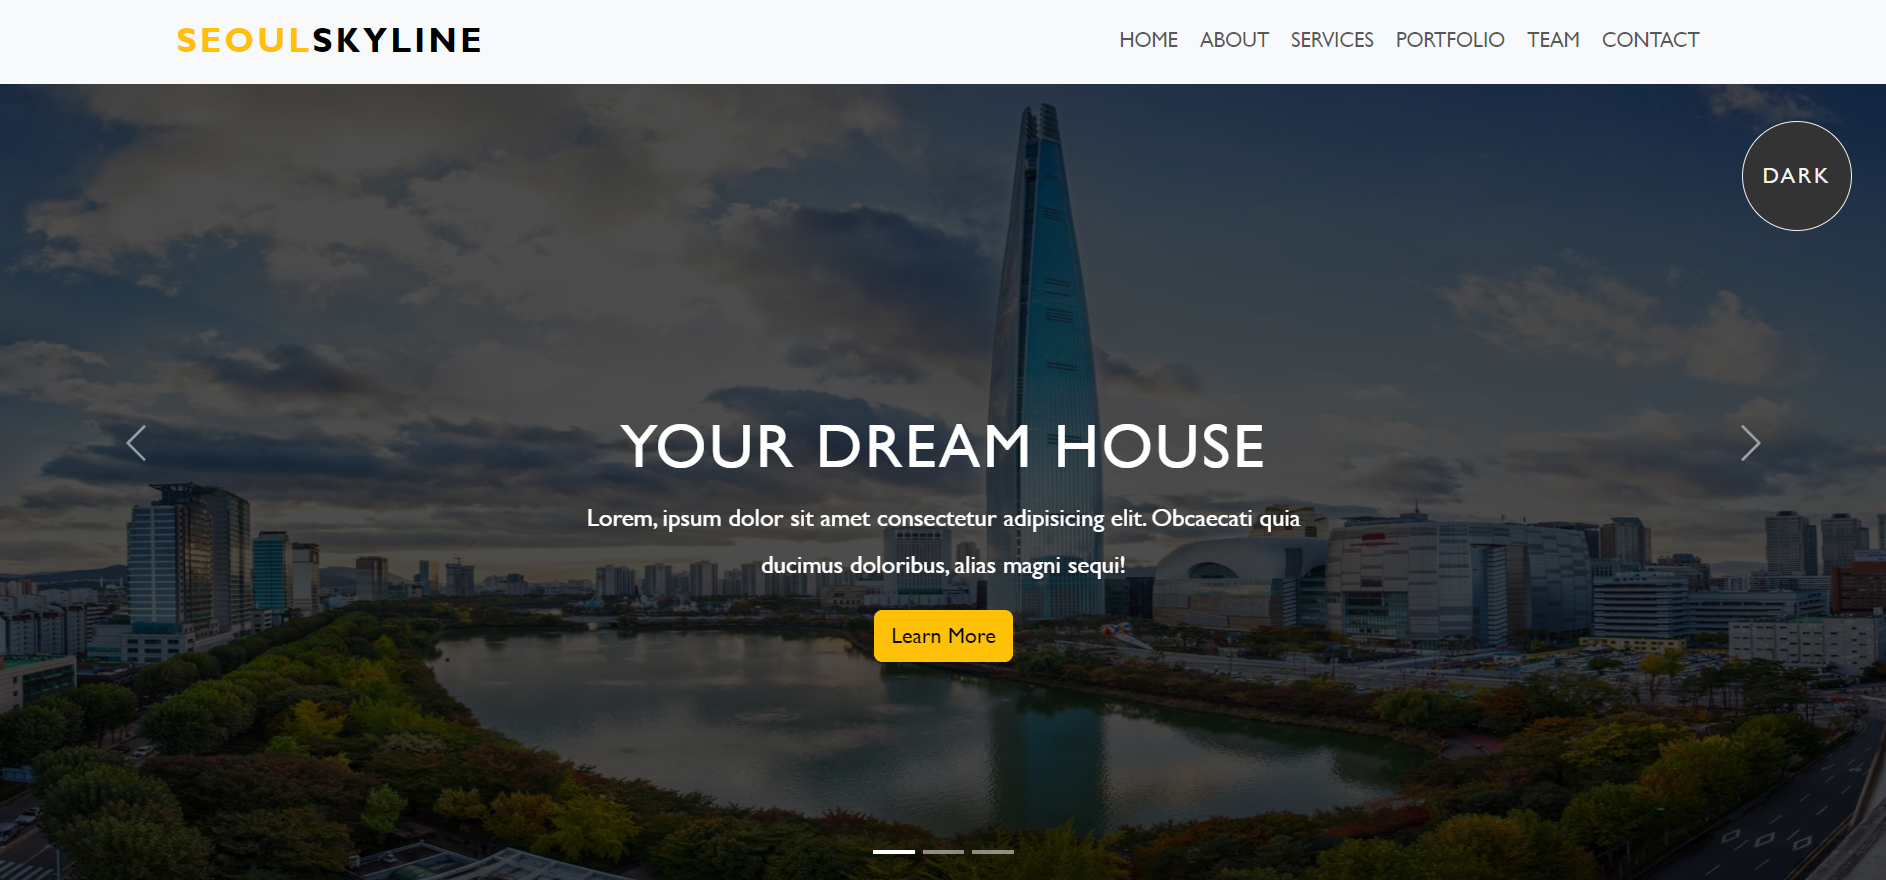
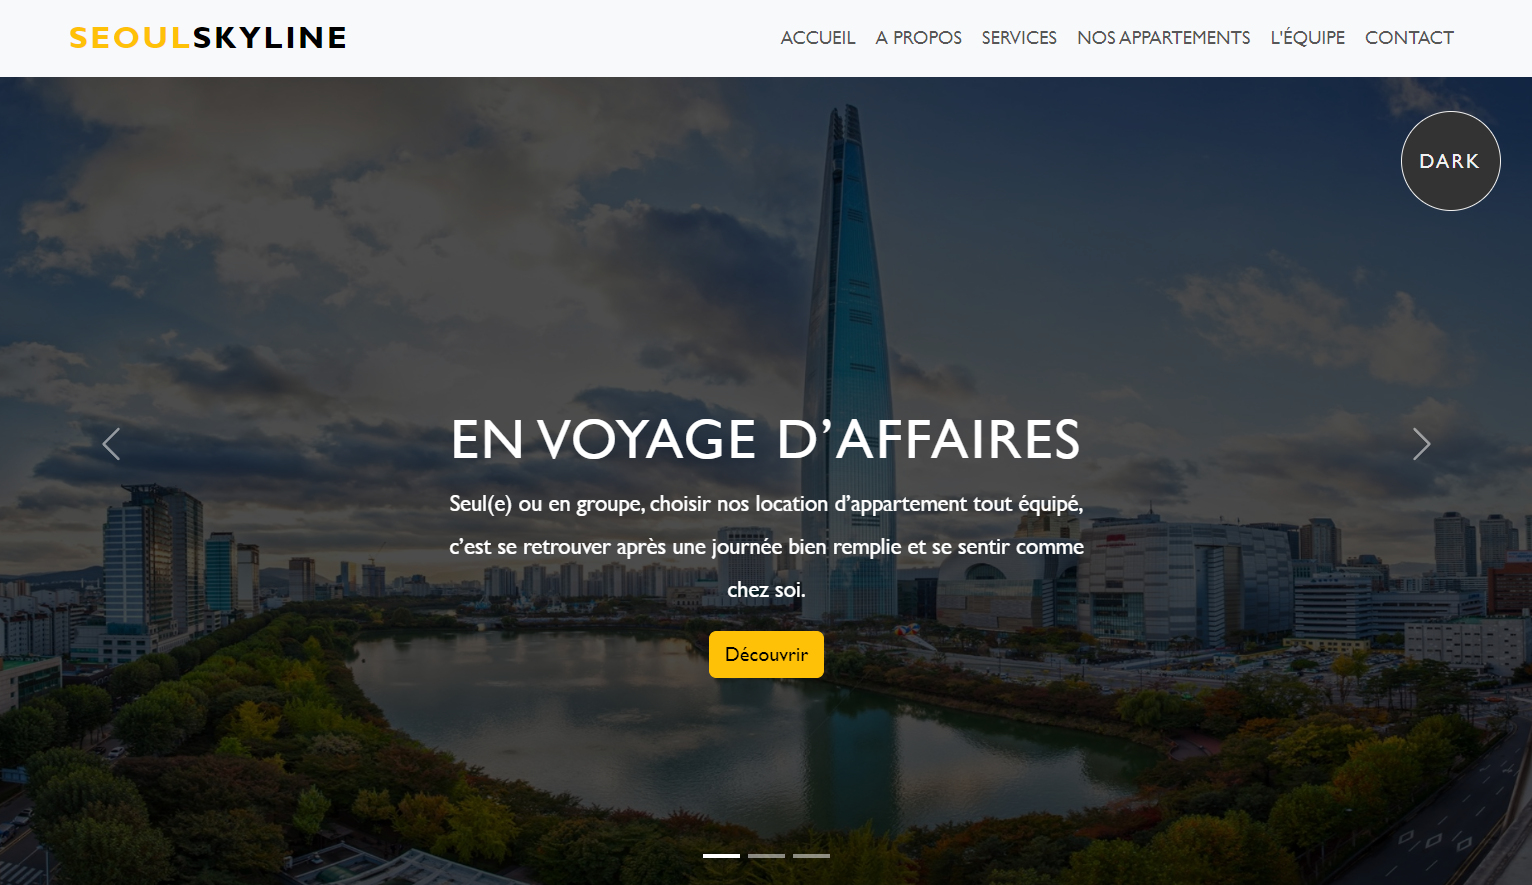
seoul skyline

diff --git a/assets/Seoul-Suite/index.html b/assets/Seoul-Suite/index.html
@@ -26,19 +26,19 @@
       <div class="collapse navbar-collapse" id="navbarSupportedContent">
         <ul class="navbar-nav ms-auto mb-2 mb-lg-0">
           <li class="nav-item">
-            <a class="nav-link" href="#home">Home</a>
+            <a class="nav-link" href="#home">Accueil</a>
           </li>
           <li class="nav-item">
-            <a class="nav-link" href="#about">About</a>
+            <a class="nav-link" href="#about">A propos</a>
           </li>
           <li class="nav-item">
             <a class="nav-link" href="#services">Services</a>
           </li>
           <li class="nav-item">
-            <a class="nav-link" href="#portfolio">Portfolio</a>
+            <a class="nav-link" href="#portfolio">Nos appartements</a>
           </li>
           <li class="nav-item">
-            <a class="nav-link" href="#team">Team</a>
+            <a class="nav-link" href="#team">L'équipe</a>
           </li>
           <li class="nav-item">
             <a class="nav-link" href="#contact">Contact</a>
@@ -64,28 +64,29 @@
       <div class="carousel-item active">
         <img src="./project-1-img/home-1.jpg" class="d-block w-100" alt="...">
         <div class="carousel-caption ">
-          <h5>Your Dream House</h5>
-          <p>Lorem, ipsum dolor sit amet consectetur adipisicing elit. Obcaecati quia ducimus doloribus, alias magni
-            sequi!</p>
-          <p><a href="#" class="btn btn-warning mt-3">Learn More</a></p>
+          <h5>En voyage d’affaires</h5>
+          <p>Seul(e) ou en groupe, choisir nos location d’appartement tout équipé, c’est se retrouver après une journée
+            bien remplie et se sentir comme chez soi.</p>
+          <p><a href="#" class="btn btn-warning mt-3">Découvrir</a></p>
         </div>
       </div>
       <div class="carousel-item">
         <img src="./project-1-img/home-2.jpg" class="d-block w-100" alt="...">
         <div class="carousel-caption ">
-          <h5>Seoul Skyline</h5>
-          <p>Lorem, ipsum dolor sit amet consectetur adipisicing elit. Obcaecati quia ducimus doloribus, alias magni
-            sequi!</p>
-          <p><a href="#" class="btn btn-warning mt-3">Learn More</a></p>
+          <h5>Connectivité optimale</h5>
+          <p>Tous nos appartement sont équipés d'une connexion internet très haut débit ainsi que tous les équipement
+            d'un
+            espace professionnel</p>
+          <p><a href="#" class="btn btn-warning mt-3">Découvrir</a></p>
         </div>
       </div>
       <div class="carousel-item">
         <img src="./project-1-img/home-3.jpg" class="d-block w-100" alt="...">
         <div class="carousel-caption ">
-          <h5>A vision of the future</h5>
-          <p>Lorem, ipsum dolor sit amet consectetur adipisicing elit. Obcaecati quia ducimus doloribus, alias magni
-            sequi!</p>
-          <p><a href="#" class="btn btn-warning mt-3">Learn More</a></p>
+          <h5>Un accompagnement sur mesure</h5>
+          <p>Notre équipe sur place reste disponible afin de vous accompagner dans toutes vos démarches administratives
+            et vos rendez-vous d'affaire</p>
+          <p><a href="#" class="btn btn-warning mt-3">Découvrir</a></p>
         </div>
       </div>
     </div>
@@ -110,11 +111,10 @@
         </div>
         <div class="col-lg-8 col-md-12 col-12 ps-lg-5 mt-md-5">
           <div class="about-text">
-            <h2>We Provide best Quality <br> Services Ever</h2>
-            <p>Lorem ipsum dolor sit amet, consectetur adipisicing elit. Ducimus commodi perspiciatis, rem qui quasi
-              quisquam amet earum minus, dolores tempore reiciendis necessitatibus optio accusamus! Dolore nesciunt
-              molestiae quia suscipit enim.</p>
-            <a href="#" class="btn btn-warning">Learn More</a>
+            <h2>Nous fournissons la meilleure qualité</h2>
+            <p> Chacun de nos complexe dispose d'un service secrétariat disponible 6j/7 24h/24 ainsi que de salle de
+              réunion de la gamme new horizon. La capacité des salles varie de 8 à 35 personnes. </p>
+            <a href="#" class="btn btn-warning">Découvrir nos offres</a>
           </div>
         </div>
       </div>
@@ -126,7 +126,7 @@
       <div class="row">
         <div class="col-md-12">
           <div class="section-header text-center pb-5">
-            <h2>Our Services</h2>
+            <h2>Nos Services</h2>
             <p>Lorem ipsum dolor sit, amet consectetur adipisicing elit.<br> Est corrupti tempore explicabo provident
             </p>
           </div>
@@ -137,11 +137,10 @@
           <div class="card text-white text-center bg-dark pb-2">
             <div class="card-body">
               <i class="bi bi-subtract"></i>
-              <h3 class="card-title">Best Quality</h3>
-              <p class="lead">Lorem ipsum dolor sit amet consectetur adipisicing elit. Ipsum aspernatur, nostrum
-                assumenda dignissimos voluptate quas distinctio iusto. Fugiat perferendis omnis exercitationem sapiente,
-                tempora modi ipsa!</p>
-              <button class="btn btn-warning text-dark">Read More</button>
+              <h3 class="card-title">meilleure qualité</h3>
+              <p class="lead">L'ensemble de nos appartements répondent aux standard des hotels 4 étoiles. Les services
+                de chambre, conciergerie et cuisinier à domicile sont également inclus.</p>
+              <button class="btn btn-warning text-dark">Découvrir</button>
             </div>
           </div>
         </div>
@@ -149,11 +148,10 @@
           <div class="card text-white text-center bg-dark pb-2">
             <div class="card-body">
               <i class="bi bi-slack"></i>
-              <h3 class="card-title">Sustainability</h3>
-              <p class="lead">Lorem ipsum dolor sit amet consectetur adipisicing elit. Ipsum aspernatur, nostrum
-                assumenda dignissimos voluptate quas distinctio iusto. Fugiat perferendis omnis exercitationem sapiente,
-                tempora modi ipsa!</p>
-              <button class="btn btn-warning text-dark">Read More</button>
+              <h3 class="card-title">Connectivité</h3>
+              <p class="lead">Chaque building est équipé de connexion très haut début, rétroprojecteur, salle de réunion
+                et pièce de streaming. La salle de sport et la piscine sont également en libre accès.</p>
+              <button class="btn btn-warning text-dark">Découvrir</button>
             </div>
           </div>
         </div>
@@ -161,11 +159,10 @@
           <div class="card text-white text-center bg-dark pb-2">
             <div class="card-body">
               <i class="bi bi-playstation"></i>
-              <h3 class="card-title">Intergrity</h3>
-              <p class="lead">Lorem ipsum dolor sit amet consectetur adipisicing elit. Ipsum aspernatur, nostrum
-                assumenda dignissimos voluptate quas distinctio iusto. Fugiat perferendis omnis exercitationem sapiente,
-                tempora modi ipsa!</p>
-              <button class="btn btn-warning text-dark">Read More</button>
+              <h3 class="card-title">Divertissement</h3>
+              <p class="lead">Tous nos appartements sont situés dans les quartiers les plus dynamiques de Séoul. Les
+                poumons économiques et culturels de la mégapole</p>
+              <button class="btn btn-warning text-dark">Découvrir</button>
             </div>
           </div>
         </div>
@@ -179,8 +176,8 @@
       <div class="row">
         <div class="col-md-12">
           <div class="section-header text-center pb-5">
-            <h2>Our Projects</h2>
-            <p>Provide you with the smoothest and most <br>qualitative life experience possible.
+            <h2>Nos buildings</h2>
+            <p>Vous offrir l'expérience de vie la plus douce <br>et la plus qualitative possible.
             </p>
           </div>
         </div>
@@ -194,10 +191,10 @@
                 <img src="./project-1-img/project-1.jpg" alt="" class="img-fluid">
               </div>
               <h3 class="card-title">West Seoul</h3>
-              <p class="lead">Lorem, ipsum dolor sit amet consectetur adipisicing elit. Quos, alias. In commodi unde,
-                vitae nulla quo dolorem sit placeat assumenda recusandae architecto magni modi vel, quam impedit soluta
-                omnis quia.</p>
-              <button class="btn bg-warning text-dark">Learn More</button>
+              <p class="lead">Le West Seoul est un gratte-ciel résidentiel moderne. Il se situe dans
+                la partie « Tower Palace Three », du complexe Samsung Tower Palace. Il mesure 263 mètres pour 69
+                étages. Sont meilleur et le calme et la sérénité qui englobe sont quartier.</p>
+              <button class="btn bg-warning text-dark">Découvrir</button>
             </div>
           </div>
         </div>
@@ -208,10 +205,11 @@
                 <img src="./project-1-img/project-2.jpg" alt="" class="img-fluid">
               </div>
               <h3 class="card-title">Seoul Center</h3>
-              <p class="lead">Lorem, ipsum dolor sit amet consectetur adipisicing elit. Quos, alias. In commodi unde,
-                vitae nulla quo dolorem sit placeat assumenda recusandae architecto magni modi vel, quam impedit soluta
-                omnis quia.</p>
-              <button class="btn bg-warning text-dark">Learn More</button>
+              <p class="lead">Le Seoul center est un gratte-ciel de bureaux situé sur l'île de Yeouido, en plein coeur
+                de Séoul. Il mesure 249 m et compte 60 étages. Idéalement situé il permet de réjoindre l'aéroport
+                Incheon en
+                moins de 30min en métro.</p>
+              <button class="btn bg-warning text-dark">Découvrir</button>
             </div>
           </div>
         </div>
@@ -222,10 +220,10 @@
                 <img src="./project-1-img/project-3.jpg" alt="" class="img-fluid">
               </div>
               <h3 class="card-title">East Seoul</h3>
-              <p class="lead">Lorem, ipsum dolor sit amet consectetur adipisicing elit. Quos, alias. In commodi unde,
-                vitae nulla quo dolorem sit placeat assumenda recusandae architecto magni modi vel, quam impedit soluta
-                omnis quia.</p>
-              <button class="btn bg-warning text-dark">Learn More</button>
+              <p class="lead">Le Est Seoul est un immeuble de bureaux à Séoul, en Corée du Sud. Achevé en 1970, le
+                bâtiment était le plus haut bâtiment de Séoul jusqu'en 1979, date à laquelle le Lotte Hotel Seoul a été
+                achevé. L'architecte était Kim Joong-up,célèbre en Corée du Sud.</p>
+              <button class="btn bg-warning text-dark">Découvrir</button>
             </div>
           </div>
         </div>
@@ -238,8 +236,8 @@
       <div class="row">
         <div class="col-md-12">
           <div class="section-header text-center pb-5">
-            <h2>Our Team</h2>
-            <p>Lorem ipsum dolor sit, amet consectetur adipisicing elit.<br> Est corrupti tempore explicabo provident
+            <h2>Notre équipe</h2>
+            <p>Une équipe de professionnel polyvalente<br> pour l'ensemble de vos besoins.
             </p>
           </div>
         </div>
@@ -250,9 +248,8 @@
             <div class="card-body">
               <img src="./project-1-img/team-1.jpg" alt="" class="img-fluid rounded-circle">
               <h3 class="card-title py-2">An Hye-ri</h3>
-              <p class="card-text">Lorem ipsum dolor sit amet consectetur, adipisicing elit. Omnis eius in aliquam
-                asperiores sint quaerat? Ducimus beatae cum ea cupiditate? Asperiores magnam distinctio libero? Soluta
-                quas dicta modi necessitatibus saepe.
+              <p class="card-text">Comptable fiscaliste, il vous accompgnera et conseillera dans le montage le plus
+                adapté à vos projets de développement. Il a également fait ses études en France.
               </p>
               <p class="socials">
                 <i class="bi bi-twitter text-dark mx-1"></i>
@@ -268,9 +265,8 @@
             <div class="card-body">
               <img src="./project-1-img/team-2.jpg" alt="" class="img-fluid rounded-circle">
               <h3 class="card-title py-2">Lee Nak-hoon</h3>
-              <p class="card-text">Lorem ipsum dolor sit amet consectetur, adipisicing elit. Omnis eius in aliquam
-                asperiores sint quaerat? Ducimus beatae cum ea cupiditate? Asperiores magnam distinctio libero? Soluta
-                quas dicta modi necessitatibus saepe.
+              <p class="card-text">Conseiller juridique des affaires économique. Il dispose de 30 années d'experience au
+                bareau de séoul en lien avec les plus grandes société étrangères.
               </p>
               <p class="socials">
                 <i class="bi bi-twitter text-dark mx-1"></i>
@@ -286,9 +282,8 @@
             <div class="card-body">
               <img src="./project-1-img/team-3.jpg" alt="" class="img-fluid rounded-circle">
               <h3 class="card-title py-2">Moon Mi-bong</h3>
-              <p class="card-text">Lorem ipsum dolor sit amet consectetur, adipisicing elit. Omnis eius in aliquam
-                asperiores sint quaerat? Ducimus beatae cum ea cupiditate? Asperiores magnam distinctio libero? Soluta
-                quas dicta modi necessitatibus saepe.
+              <p class="card-text">Interprète Francais-coréen diplomée de l'Université pour femme de Ehwa. Elle
+                accompgne les société notamment lors d'évenement et de salon professionnels.
               </p>
               <p class="socials">
                 <i class="bi bi-twitter text-dark mx-1"></i>
@@ -304,9 +299,8 @@
             <div class="card-body">
               <img src="./project-1-img/team-4.jpg" alt="" class="img-fluid rounded-circle">
               <h3 class="card-title py-2">Kim Ji-young</h3>
-              <p class="card-text">Lorem ipsum dolor sit amet consectetur, adipisicing elit. Omnis eius in aliquam
-                asperiores sint quaerat? Ducimus beatae cum ea cupiditate? Asperiores magnam distinctio libero? Soluta
-                quas dicta modi necessitatibus saepe.
+              <p class="card-text"> Traductrice assermentée par l'ambassade de France en corée elle dispose
+                de 10 années d'expertise dans le domaine des relations inter-entreprise et fiscales.
               </p>
               <p class="socials">
                 <i class="bi bi-twitter text-dark mx-1"></i>
@@ -327,8 +321,9 @@
       <div class="row">
         <div class="col-md-12">
           <div class="section-header text-center pb-5">
-            <h2>Contact us</h2>
-            <p>Lorem ipsum dolor sit, amet consectetur adipisicing elit.<br> Est corrupti tempore explicabo provident
+            <h2>Nous contacter</h2>
+            <p>Vous avez un doutes, une questions?<br> Nous sommes disponible du Lundi au samedi pour répondre à vos
+              besoins.
             </p>
           </div>
         </div>
@@ -339,21 +334,21 @@
             <div class="row">
               <div class="col-md-12">
                 <div class="mb-3">
-                  <input type="text" class="form-control" required placeholder="Your Full name">
+                  <input type="text" class="form-control" required placeholder="Votre nom complet">
                 </div>
               </div>
               <div class="col-md-12">
                 <div class="mb-3">
-                  <input type="email" class="form-control" required placeholder="Your Email Here">
+                  <input type="email" class="form-control" required placeholder="Votre e-mail professionnel">
                 </div>
               </div>
               <div class="col-md-12">
                 <div class="mb-3">
-                  <textarea rows="3" required class="form-control" placeholder="Your Query here"></textarea>
+                  <textarea rows="3" required class="form-control" placeholder="Votre question"></textarea>
                 </div>
               </div>
               <button class="btn btn-warning btn-lg btn-block mt-3">
-                Send Now
+                Envoyer
               </button>
             </div>
           </form>
@@ -364,7 +359,7 @@
 
   <footer class="bg-dark p-2 text-center">
     <div class="container">
-      <p class="text-white">All Right Reserved @Seoul Suites</p>
+      <p class="text-white">Tous droits réservés - 2023 @Seoul Skyline</p>
     </div>
   </footer>
 

diff --git a/index.html b/index.html
@@ -161,8 +161,7 @@
           <img src="./assets/img/projet-2.jpg" alt="projet 2" title="G Campus Projet">
           <div class="projects-infos">
             <a href="./assets/Game C/index.html" target="_blank">G Campus</a>
-            <p style="font-size: 3rem;"><i class="fa-brands fa-html5"></i> <i class="fa-brands fa-css3-alt"></i></p>
-            <p>08/2022</p>
+            <p style="font-size: 2rem;"><i class="fa-brands fa-html5"></i> <i class="fa-brands fa-css3-alt"></i></p>
           </div>
         </div>
         <div class="projects-container">
@@ -170,9 +169,8 @@
             <img src="./assets/img/projet-1.jpg" alt="projet 1" title="helium projet">
             <div class="projects-infos">
               <a href="./assets/Helium Mobile - perso/index.html" target="_blank">Helium </a>
-              <p style="font-size: 3rem;"><i class="fa-brands fa-html5"></i> <i class="fa-brands fa-css3-alt"></i> <i
+              <p style="font-size: 2rem;"><i class="fa-brands fa-html5"></i> <i class="fa-brands fa-css3-alt"></i> <i
                   class="fa-brands fa-js"></i> <i class="fa-solid fa-mobile-screen"></i></p>
-              <p>09/2022</p>
             </div>
           </div>
 
@@ -181,9 +179,8 @@
               <img src="./assets/img/projet-3.jpg" alt="projet 3" title="Resto projet">
               <div class="projects-infos">
                 <a href="./assets/Resto/index.html" target="_blank">The Resto</a>
-                <p style="font-size: 3rem;"><i class="fa-brands fa-html5"></i> <i class="fa-brands fa-css3-alt"></i>
+                <p style="font-size: 2rem;"><i class="fa-brands fa-html5"></i> <i class="fa-brands fa-css3-alt"></i>
                   <i class="fa-brands fa-sass"></i> <i class="fa-solid fa-mobile-screen"></i></p>
-                <p>10/2022</p>
               </div>
             </div>
           </div>
@@ -192,10 +189,9 @@
               <img src="./assets/img/Seoulskyline.png" alt="projet 4" title="Seoul Skyline">
               <div class="projects-infos">
                 <a href="./assets/Seoul-Suite/index.html" target="_blank">Seoul Skyline</a>
-                <p style="font-size: 3rem;"><i class="fa-brands fa-html5"></i> <i class="fa-brands fa-css3-alt"></i> <i
+                <p style="font-size: 2rem;"><i class="fa-brands fa-html5"></i> <i class="fa-brands fa-css3-alt"></i> <i
                     class="fa-brands fa-js"></i> <i class="fa-brands fa-bootstrap"></i> <i
                     class="fa-solid fa-mobile-screen"></i></p>
-                <p>03/2023</p>
               </div>
             </div>
             <div class="projects-container">
@@ -203,8 +199,7 @@
                 <img src="./assets/img/Figma P.jpg" alt="projet 4" title="Figma Projet">
                 <div class="projects-infos">
                   <a href="./assets/img/Figma P.jpg" target="_blank">Figma app</a>
-                  <p style="font-size: 3rem;"><i class="fa-brands fa-figma"></i></p>
-                  <p>03/2023</p>
+                  <p style="font-size: 2rem;"><i class="fa-brands fa-figma"></i></p>
                 </div>
               </div>
     </section>
